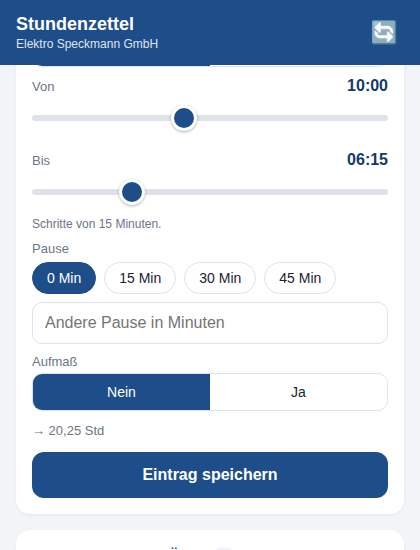
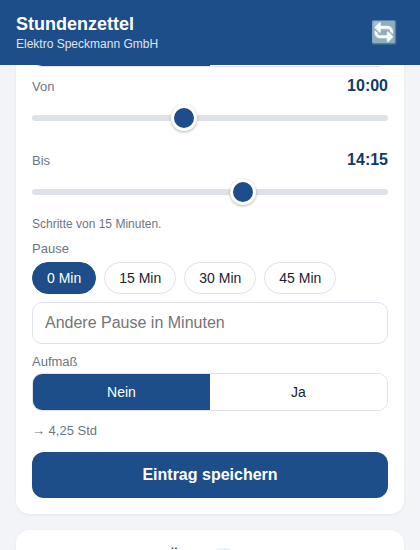
Add files via upload

diff --git a/app.js b/app.js
@@ -518,6 +518,9 @@ function initForm() {
     saveState();
   });
 
+  $('archiveYearSel').addEventListener('change', renderArchiveMonthView);
+  $('archiveMonthSel').addEventListener('change', renderArchiveMonthView);
+
   $('backupExportBtn').addEventListener('click', exportDataBackup);
   $('backupImportBtn').addEventListener('click', () => $('backupImportInput').click());
   $('backupImportInput').addEventListener('change', (e) => {
@@ -801,11 +804,50 @@ function topToPdfY(topY) {
   return TEMPLATE.pageHeight - topY;
 }
 
+function mergeEntriesByCustomerForExport(entries) {
+  // Fasst mehrere Einträge desselben Kunden am selben Tag (z.B. wenn der Kunde
+  // zwischendurch verlassen und später wieder aufgesucht wurde) zu EINER Export-Zeile
+  // zusammen: Netto-Stunden werden addiert, Beschreibungen zusammengeführt. Die
+  // ursprünglichen Einzeleinträge in der App/im Archiv bleiben davon unberührt —
+  // die Zusammenführung passiert ausschließlich für den PDF-Export.
+  const order = [];
+  const groupsByCustomer = {};
+  entries.forEach(e => {
+    const key = (e.customer || '').trim().toLowerCase();
+    if (!groupsByCustomer[key]) { groupsByCustomer[key] = []; order.push(key); }
+    groupsByCustomer[key].push(e);
+  });
+  const merged = [];
+  order.forEach(key => {
+    const group = groupsByCustomer[key];
+    if (group.length === 1) { merged.push(group[0]); return; }
+    const totalMinutes = group.reduce((sum, e) => sum + computeNetMinutes(e), 0);
+    const descs = [...new Set(group.map(e => (e.desc || '').trim()).filter(Boolean))];
+    const withAddress = group.find(e => e.address);
+    merged.push({
+      id: group.map(e => e.id).join('+'),
+      date: group[0].date,
+      customer: group[0].customer,
+      address: withAddress ? withAddress.address : '',
+      desc: descs.join(' + '),
+      aufmass: group.some(e => e.aufmass === 'ja') ? 'ja' : 'nein',
+      timeMode: 'duration',
+      durationHours: totalMinutes / 60,
+      breakMinutes: 0
+    });
+  });
+  return merged;
+}
+
 function buildExportPages() {
   // 1) nach Monat gruppieren (chronologisch), 2) innerhalb des Monats nach Datum gruppieren,
   // 3) Datums-Gruppen so auf Blätter packen, dass eine Datums-Gruppe NIE über zwei Blätter
   //    gesplittet wird (Vorgabe: reicht der Platz nicht, kommt ein komplett neues Blatt).
-  const dateGroups = groupedEntriesByDate(); // sortiert nach Datum
+  // Innerhalb jedes Tages werden mehrere Einträge desselben Kunden zu einer Zeile zusammengeführt.
+  const dateGroups = groupedEntriesByDate().map(g => ({
+    date: g.date,
+    entries: mergeEntriesByCustomerForExport(g.entries)
+  })); // sortiert nach Datum
   const byMonth = {};
   dateGroups.forEach(g => {
     const mk = monthKey(g.date);
@@ -1001,7 +1043,92 @@ function formatExportedAt(iso) {
   return `${dd}.${mm}.${d.getFullYear()}, ${hh}:${min} Uhr`;
 }
 
+// ---------- Archiv: Jahr/Monat-Übersicht ----------
+
+function archiveYearsAvailable() {
+  const years = new Set();
+  state.archive.forEach(b => b.entries.forEach(e => years.add(e.date.slice(0, 4))));
+  years.add(String(new Date().getFullYear()));
+  return [...years].sort((a, b) => b - a); // neuestes Jahr zuerst
+}
+
+function populateArchiveMonthFilter() {
+  const yearSel = $('archiveYearSel');
+  const monthSel = $('archiveMonthSel');
+  if (!yearSel || !monthSel) return;
+
+  const years = archiveYearsAvailable();
+  const prevYear = yearSel.value;
+  yearSel.innerHTML = years.map(y => `<option value="${y}">${y}</option>`).join('');
+  yearSel.value = years.includes(prevYear) ? prevYear : String(new Date().getFullYear());
+
+  if (!monthSel.options.length) {
+    monthSel.innerHTML = MONATE.map((name, idx) => `<option value="${String(idx + 1).padStart(2, '0')}">${name}</option>`).join('');
+    monthSel.value = String(new Date().getMonth() + 1).padStart(2, '0');
+  }
+}
+
+function renderArchiveMonthView() {
+  const yearSel = $('archiveYearSel');
+  const monthSel = $('archiveMonthSel');
+  const summaryEl = $('archiveMonthSummary');
+  const listEl = $('archiveMonthList');
+  if (!yearSel || !monthSel || !summaryEl || !listEl) return;
+
+  const year = yearSel.value;
+  const month = monthSel.value;
+  const monthKeyVal = `${year}-${month}`;
+  const monatName = MONATE[parseInt(month, 10) - 1];
+
+  const matches = []; // { entry, batchId }
+  state.archive.forEach(batch => {
+    batch.entries.forEach(e => {
+      if (monthKey(e.date) === monthKeyVal) matches.push({ entry: e, batchId: batch.id });
+    });
+  });
+
+  const totalH = matches.reduce((sum, m) => sum + minutesToHoursDecimal(computeNetMinutes(m.entry)), 0);
+  summaryEl.textContent = matches.length
+    ? `${monatName} ${year}: ${formatHoursDE(totalH)} Std archiviert (${matches.length} Einträge)`
+    : `${monatName} ${year}: noch keine archivierten Einträge.`;
+
+  listEl.innerHTML = '';
+  const byDate = {};
+  matches.forEach(m => { (byDate[m.entry.date] = byDate[m.entry.date] || []).push(m); });
+  Object.keys(byDate).sort().forEach(date => {
+    const dayTotal = byDate[date].reduce((s, m) => s + minutesToHoursDecimal(computeNetMinutes(m.entry)), 0);
+    const gDiv = document.createElement('div');
+    gDiv.className = 'entry-group';
+    gDiv.innerHTML = `<div class="entry-group-date"><span>${formatDateLong(date)}</span><span class="total">Gesamt: ${formatHoursDE(dayTotal)} Std</span></div>`;
+    const list = document.createElement('div');
+    byDate[date].forEach(({ entry: e, batchId }) => {
+      const mins = computeNetMinutes(e);
+      const timeLabel = e.timeMode === 'range' ? `${e.start}–${e.end}` : `${formatHoursDE(e.durationHours)} Std`;
+      const item = document.createElement('div');
+      item.className = 'entry-item';
+      item.innerHTML = `
+        <div class="info">
+          <div class="customer">${escapeHtml(e.customer)} ${e.aufmass === 'ja' ? '<span class="badge">Aufmaß</span>' : ''}</div>
+          <div class="desc">${escapeHtml(e.desc)}</div>
+          <div class="meta">${timeLabel}${e.breakMinutes ? ` · ${e.breakMinutes} Min Pause` : ''} · ${formatHoursDE(minutesToHoursDecimal(mins))} Std</div>
+        </div>
+        <div class="actions">
+          <button class="icon-btn restore-one" title="Zurück in aktive Liste">↩</button>
+        </div>`;
+      item.querySelector('.restore-one').addEventListener('click', () => {
+        restoreEntryFromArchive(batchId, e.id); // ruft renderArchive() auf, das auch diese Ansicht neu zeichnet
+      });
+      list.appendChild(item);
+    });
+    gDiv.appendChild(list);
+    listEl.appendChild(gDiv);
+  });
+}
+
 function renderArchive() {
+  populateArchiveMonthFilter();
+  renderArchiveMonthView();
+
   const wrap = $('archiveWrap');
   const totalArchived = state.archive.reduce((s, b) => s + b.entries.length, 0);
   $('archiveCountBadge').textContent = totalArchived;

diff --git a/index.html b/index.html
@@ -246,6 +246,22 @@
   <div class="card">
     <h2>Archiv <span class="badge" id="archiveCountBadge">0</span></h2>
     <div class="hint" style="margin-top:0;">Bereits exportierte Einträge. Bei Bedarf kannst du einzelne Einträge oder einen ganzen Export zurück in die aktive Liste holen, um sie zu ändern.</div>
+
+    <div class="row" style="margin-top:12px;">
+      <div>
+        <label for="archiveYearSel">Jahr</label>
+        <select id="archiveYearSel"></select>
+      </div>
+      <div>
+        <label for="archiveMonthSel">Monat</label>
+        <select id="archiveMonthSel"></select>
+      </div>
+    </div>
+    <div id="archiveMonthSummary" class="hint" style="margin-top:10px; font-size:14px; font-weight:600; color:var(--blue-dark);"></div>
+    <div id="archiveMonthList" style="margin-top:8px;"></div>
+
+    <div style="margin:18px 0 10px; border-top:1px solid var(--line);"></div>
+    <div class="hint" style="margin-top:0;">Alle Exporte, nach Exportzeitpunkt:</div>
     <div id="archiveWrap" style="margin-top:10px;">
       <div class="empty-state">Noch keine Exporte im Archiv.</div>
     </div>

diff --git a/sw.js b/sw.js
@@ -1,4 +1,4 @@
-const CACHE_NAME = 'stundenzettel-v9';
+const CACHE_NAME = 'stundenzettel-v10';
 const ASSETS = [
   './',
   './index.html',
